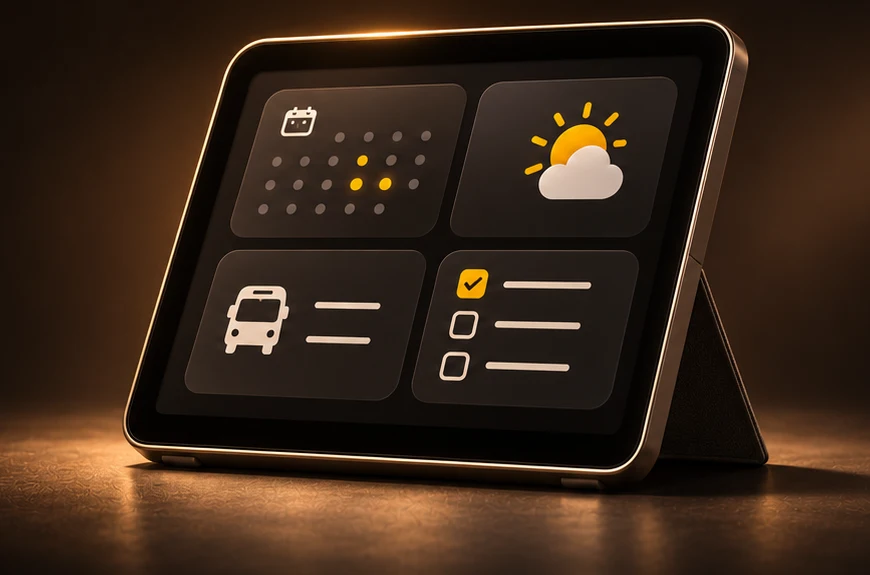
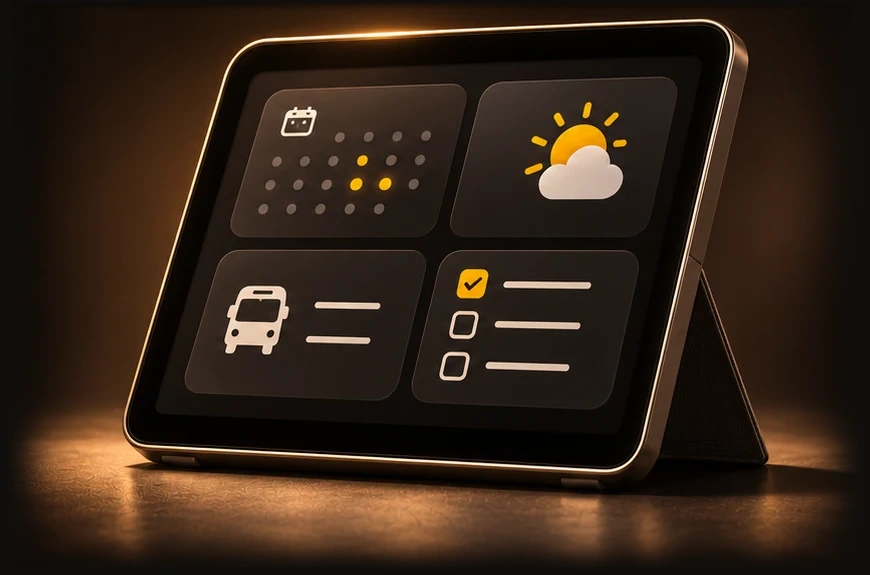
Ü12: Projektarchiv ohne Sprünge bedienen

diff --git a/index.html b/index.html
@@ -41,43 +41,57 @@
 
     <section id="projekte" class="section" aria-labelledby="projekte-title">
       <div class="container">
-        <div class="catalog-heading">
-          <h2 id="projekte-title">Projektarchiv</h2>
-          <button type="button" class="tour-control" hidden>Rundgang starten</button>
-        </div>
+        <h2 id="projekte-title">Projektarchiv</h2>
         <div class="catalog">
-          <nav class="project-list" aria-label="Projektauswahl">
-            <a href="#plantbuddy"><img src="assets/projekte/plantbuddy.webp" alt="" loading="lazy"><span><strong>PlantBuddy</strong><small>App-Konzept im Team</small></span></a>
-            <a href="#homelab"><img src="assets/projekte/homelab.webp" alt="" loading="lazy"><span><strong>Homelab</strong><small>Eigene Dienste mit Proxmox</small></span></a>
-            <a href="#portal-islands"><img src="assets/projekte/portal-islands.webp" alt="" loading="lazy"><span><strong>Portal Islands</strong><small>Minecraft-Mod für Inselexpeditionen</small></span></a>
-            <a href="#dashboard"><img src="assets/projekte/dashboard.webp" alt="" loading="lazy"><span><strong>Dashboard</strong><small>Konzept für eine private Webübersicht</small></span></a>
-            <a href="#escape-the-tide"><img src="assets/projekte/escape-the-tide.webp" alt="" loading="lazy"><span><strong>Escape the Tide</strong><small>Taktikrätsel mit steigender Flut</small></span></a>
-          </nav>
+          <div class="catalog-sidebar">
+            <nav class="project-list" aria-label="Projektauswahl">
+              <a href="#plantbuddy"><img src="assets/projekte/plantbuddy.webp" width="860" height="560" alt="" loading="lazy"><span><strong>PlantBuddy</strong><small>App-Konzept im Team</small></span></a>
+              <a href="#homelab"><img src="assets/projekte/homelab.webp" width="865" height="595" alt="" loading="lazy"><span><strong>Homelab</strong><small>Eigene Dienste mit Proxmox</small></span></a>
+              <a href="#portal-islands"><img src="assets/projekte/portal-islands.webp" width="860" height="598" alt="" loading="lazy"><span><strong>Portal Islands</strong><small>Minecraft-Mod für Inselexpeditionen</small></span></a>
+              <a href="#dashboard"><img src="assets/projekte/dashboard.webp" width="870" height="575" alt="" loading="lazy"><span><strong>Dashboard</strong><small>Konzept für eine private Webübersicht</small></span></a>
+              <a href="#escape-the-tide"><img src="assets/projekte/escape-the-tide.webp" width="870" height="582" alt="" loading="lazy"><span><strong>Escape the Tide</strong><small>Taktikrätsel mit steigender Flut</small></span></a>
+            </nav>
+            <div class="tour-controls" hidden>
+              <span class="tour-track" aria-hidden="true"><span></span></span>
+              <button type="button" class="tour-control" aria-label="Rundgang starten">Start</button>
+            </div>
+            <a class="project-jump" href="#plantbuddy-title" hidden>Zum ausgewählten Projekt</a>
+          </div>
           <div class="project-details">
             <article id="plantbuddy" aria-labelledby="plantbuddy-title">
-              <h3 id="plantbuddy-title">PlantBuddy</h3>
-              <p>Für WGs und Büros haben wir im Modul WPR1 ein Konzept für die gemeinsame Pflanzenpflege erarbeitet. Im Team entstanden der Projektauftrag, die Systemziele und die Grobanforderungen.</p>
-              <img src="assets/projekte/plantbuddy.webp" loading="lazy" alt="">
+              <div>
+                <h3 id="plantbuddy-title" tabindex="-1">PlantBuddy</h3>
+                <p>Für WGs und Büros haben wir im Modul WPR1 ein Konzept für die gemeinsame Pflanzenpflege erarbeitet. Im Team entstanden der Projektauftrag, die Systemziele und die Grobanforderungen.</p>
+              </div>
+              <img src="assets/projekte/plantbuddy.webp" width="860" height="560" loading="lazy" alt="">
             </article>
             <article id="homelab" aria-labelledby="homelab-title">
-              <h3 id="homelab-title">Homelab</h3>
-              <p>In meinem Homelab betreibe ich eigene Dienste und beschäftige mich mit Virtualisierung, Netzwerken und Datensicherung. Interne Anwendungen und öffentlich erreichbare Gameserver laufen in getrennten Netzbereichen.</p>
-              <img src="assets/projekte/homelab.webp" loading="lazy" alt="">
+              <div>
+                <h3 id="homelab-title" tabindex="-1">Homelab</h3>
+                <p>In meinem Homelab betreibe ich eigene Dienste und beschäftige mich mit Virtualisierung, Netzwerken und Datensicherung. Interne Anwendungen und öffentlich erreichbare Gameserver laufen in getrennten Netzbereichen.</p>
+              </div>
+              <img src="assets/projekte/homelab.webp" width="865" height="595" loading="lazy" alt="">
             </article>
             <article id="portal-islands" aria-labelledby="portal-islands-title">
-              <h3 id="portal-islands-title">Portal Islands</h3>
-              <p>Die Mod führt Spieler gemeinsam auf Expeditionen. Eine Herausforderung ist die Rückkehr: Jede Person soll nach der gemeinsamen Reise ihren eigenen Ausgangspunkt wieder erreichen.</p>
-              <img src="assets/projekte/portal-islands.webp" loading="lazy" alt="">
+              <div>
+                <h3 id="portal-islands-title" tabindex="-1">Portal Islands</h3>
+                <p>Die Mod führt Spieler gemeinsam auf Expeditionen. Eine Herausforderung ist die Rückkehr: Jede Person soll nach der gemeinsamen Reise ihren eigenen Ausgangspunkt wieder erreichen.</p>
+              </div>
+              <img src="assets/projekte/portal-islands.webp" width="860" height="598" loading="lazy" alt="">
             </article>
             <article id="dashboard" aria-labelledby="dashboard-title">
-              <h3 id="dashboard-title">Dashboard</h3>
-              <p>Kalender, Aufgaben, Wetter und ÖV sollen auf einen Blick zeigen, was für den Tag ansteht. Das Tablet illustriert das Konzept mit Beispieldaten.</p>
-              <img src="assets/projekte/dashboard.webp" loading="lazy" alt="">
+              <div>
+                <h3 id="dashboard-title" tabindex="-1">Dashboard</h3>
+                <p>Kalender, Aufgaben, Wetter und ÖV sollen auf einen Blick zeigen, was für den Tag ansteht. Das Tablet illustriert das Konzept mit Beispieldaten.</p>
+              </div>
+              <img src="assets/projekte/dashboard.webp" width="870" height="575" loading="lazy" alt="">
             </article>
             <article id="escape-the-tide" aria-labelledby="escape-the-tide-title">
-              <h3 id="escape-the-tide-title">Escape the Tide</h3>
-              <p>Mit jedem gültigen Schritt breitet sich das Wasser aus. Vor dem ersten Zug kannst du eine Barriere setzen. Sie schützt deinen Weg und kann dir zugleich den Ausgang versperren.</p>
-              <img src="assets/projekte/escape-the-tide.webp" loading="lazy" alt="">
+              <div>
+                <h3 id="escape-the-tide-title" tabindex="-1">Escape the Tide</h3>
+                <p>Mit jedem gültigen Schritt breitet sich das Wasser aus. Vor dem ersten Zug kannst du eine Barriere setzen. Sie schützt deinen Weg und kann dir zugleich den Ausgang versperren.</p>
+              </div>
+              <img src="assets/projekte/escape-the-tide.webp" width="870" height="582" loading="lazy" alt="">
             </article>
           </div>
         </div>

diff --git a/js/main.js b/js/main.js
@@ -8,37 +8,60 @@ if (yearElement) {
 const projectLinks = [...document.querySelectorAll('.project-list a')];
 const projectArticles = projectLinks.map(link => document.getElementById(link.hash.slice(1)));
 
-function selectProject(hash) {
-  const selected = projectLinks.findIndex(link => link.hash === hash);
-  if (selected < 0) return false;
-  projectLinks.forEach((link, index) => {
-    projectArticles[index].hidden = index !== selected;
-    if (index === selected) link.setAttribute('aria-current', 'true');
-    else link.removeAttribute('aria-current');
-  });
-  return true;
+const catalog = document.querySelector('#projekte');
+const controls = catalog.querySelector('.tour-controls');
+const control = controls.querySelector('button');
+const bar = controls.querySelector('.tour-track span');
+const jump = catalog.querySelector('.project-jump');
+const motion = window.matchMedia('(prefers-reduced-motion: reduce)');
+const interval = 10000;
+let current = 0;
+
+function projectIndex(hash) {
+  return projectArticles.findIndex(article =>
+    hash === '#' + article.id || hash === '#' + article.getAttribute('aria-labelledby'));
 }
 
-const catalog = document.querySelector('#projekte');
-const control = catalog.querySelector('.tour-control');
-const motion = window.matchMedia('(prefers-reduced-motion: reduce)');
-const directEntry = selectProject(location.hash);
-if (!directEntry) selectProject(projectLinks[0].hash);
+function selectProject(index) {
+  current = index;
+  projectArticles.forEach((article, i) => {
+    article.inert = i !== index;
+    if (i === index) projectLinks[i].setAttribute('aria-current', 'true');
+    else projectLinks[i].removeAttribute('aria-current');
+  });
+  jump.hash = projectArticles[index].getAttribute('aria-labelledby');
+}
 
-let playing = !motion.matches && !directEntry && !catalog.contains(document.activeElement);
+const initial = projectIndex(location.hash);
+catalog.querySelector('.project-details').classList.add('is-interactive');
+selectProject(initial < 0 ? 0 : initial);
+jump.hidden = false;
+
+let reducedMotion = motion.matches;
+let playing = initial < 0 && !reducedMotion;
 let visible = false;
 let hovering = false;
-let timer;
+let focused = catalog.contains(document.activeElement);
+let frame;
+let deadline;
+
+function tick(now) {
+  if (now >= deadline) {
+    selectProject((current + 1) % projectLinks.length);
+    deadline = now + interval;
+  }
+  if (!reducedMotion) bar.style.transform = 'scaleX(' + ((deadline - now) / interval) + ')';
+  frame = requestAnimationFrame(tick);
+}
 
 function scheduleTour() {
-  clearTimeout(timer);
-  control.textContent = playing ? 'Rundgang pausieren' : 'Rundgang starten';
-  if (!playing || !visible || document.hidden || hovering) return;
-  timer = setTimeout(() => {
-    const current = projectArticles.findIndex(article => !article.hidden);
-    selectProject(projectLinks[(current + 1) % projectLinks.length].hash);
-    scheduleTour();
-  }, 10000);
+  cancelAnimationFrame(frame);
+  control.textContent = playing ? 'Pause' : 'Start';
+  control.setAttribute('aria-label', playing ? 'Rundgang pausieren' : 'Rundgang starten');
+  if (!playing || !visible || hovering || focused || document.hidden) return;
+  bar.style.transform = 'scaleX(1)';
+  deadline = performance.now() + interval;
+  frame = requestAnimationFrame(tick);
 }
 
 function pauseTour() {
@@ -47,7 +70,7 @@ function pauseTour() {
 }
 
 if ('IntersectionObserver' in window) {
-  control.hidden = false;
+  controls.hidden = false;
   new IntersectionObserver(([entry]) => {
     visible = entry.isIntersecting;
     scheduleTour();
@@ -56,43 +79,72 @@ if ('IntersectionObserver' in window) {
     hovering = event.pointerType === 'mouse';
     scheduleTour();
   });
+  catalog.addEventListener('pointerover', event => {
+    if (event.pointerType === 'mouse' && !hovering && !control.contains(event.target)) {
+      hovering = true;
+      scheduleTour();
+    }
+  });
   catalog.addEventListener('pointerleave', () => {
+    if (!hovering) return;
     hovering = false;
     scheduleTour();
   });
-  // Beim Mausklick auf Pause kommt focusin vor click. Die beabsichtigte
-  // Aktion deshalb vor dem Fokuswechsel festhalten.
-  let pointerAction;
-  control.addEventListener('pointerdown', () => { pointerAction = !playing; });
-  control.addEventListener('pointercancel', () => { pointerAction = undefined; });
-  catalog.addEventListener('focusin', pauseTour);
-  control.addEventListener('click', event => {
-    playing = event.detail && pointerAction !== undefined ? pointerAction : !playing;
-    pointerAction = undefined;
-    if (playing) hovering = false;
+  catalog.addEventListener('focusin', () => {
+    focused = true;
+    scheduleTour();
+  });
+  catalog.addEventListener('focusout', event => {
+    if (catalog.contains(event.relatedTarget)) return;
+    focused = false;
+    scheduleTour();
+  });
+  control.addEventListener('click', () => {
+    playing = !playing;
+    if (playing) {
+      hovering = false;
+      focused = false;
+      if (projectIndex(location.hash) >= 0) {
+        history.replaceState({ project: current }, '', '#' + catalog.id);
+      }
+    }
     scheduleTour();
   });
   document.addEventListener('visibilitychange', scheduleTour);
-  motion.addEventListener('change', () => {
-    if (motion.matches) pauseTour();
+  motion.addEventListener('change', event => {
+    reducedMotion = event.matches;
+    if (reducedMotion) pauseTour();
   });
   scheduleTour();
 }
 
-// Vor dem nativen Sprung auch ein momentan verborgenes Ziel einblenden.
 document.addEventListener('click', event => {
   const link = event.target.closest('a[href^="#"]');
-  if (link && !event.ctrlKey && !event.metaKey && !event.shiftKey && !event.altKey) {
-    if (selectProject(link.hash)) pauseTour();
-  }
-});
-window.addEventListener('hashchange', () => {
-  if (selectProject(location.hash)) {
-    pauseTour();
-    document.querySelector(location.hash).scrollIntoView();
+  if (!link || event.defaultPrevented || event.button !== 0 || event.ctrlKey ||
+      event.metaKey || event.shiftKey || event.altKey) return;
+  const index = projectIndex(link.hash);
+  if (index < 0) return;
+  const previous = current;
+  pauseTour();
+  selectProject(index);
+  if (projectLinks.includes(link)) {
+    event.preventDefault();
+    link.focus({ preventScroll: true });
+    if (link.hash !== location.hash) {
+      history.replaceState({ ...history.state, project: previous }, '');
+      history.pushState({ project: index }, '', link.hash);
+    }
   }
 });
 
+window.addEventListener('popstate', event => {
+  const index = projectIndex(location.hash);
+  const restored = index >= 0 ? index : event.state?.project;
+  if (restored !== undefined) {
+    selectProject(restored);
+    pauseTour();
+  }
+});
 
 // Der oberste erreichte Abschnitt bestimmt die aktive Navigation.
 const sectionLinks = [...document.querySelectorAll('.nav-list a')];

diff --git a/css/styles.css b/css/styles.css
@@ -310,14 +310,43 @@ figcaption small { display: block; font: .9rem/1.5 var(--font-body); }
 .project-list img, .project-list small { display: none; }
 .project-details article { padding-block: 1rem; }
 .project-details h3 { font: 500 clamp(2rem, 5vw, 4rem)/1.1 Georgia, serif; }
-.project-details img { display: block; width: 100%; height: auto; object-fit: contain; }
+.project-details img { display: block; width: 100%; height: auto; aspect-ratio: 3 / 2; object-fit: contain; }
 @media (min-width: 48rem) {
   .catalog { display: grid; grid-template-columns: minmax(15rem, 1fr) minmax(0, 2fr); gap: 2rem; }
   .project-list { display: grid; }
-  .project-list img { display: block; width: 28%; height: auto; object-fit: contain; }
+  .project-list img { display: block; width: 28%; height: auto; aspect-ratio: 3 / 2; object-fit: contain; }
   .project-list small { display: block; margin-top: .3rem; color: var(--color-muted); }
   .project-details article { padding-top: 0; }
 }
 
-.catalog-heading { display: flex; align-items: baseline; justify-content: space-between; flex-wrap: wrap; gap: 0 1rem; }
-.tour-control { padding: .65rem 1rem; margin-bottom: 1rem; border: 0; border-radius: var(--radius); background: var(--color-accent); color: #21160b; font: inherit; cursor: pointer; }
+/* Alle fünf Texte bestimmen gemeinsam die Höhe der ersten Zeile. */
+.project-details.is-interactive {
+  display: grid;
+  grid-template-rows: auto auto;
+  align-content: start;
+}
+.project-details.is-interactive article {
+  grid-area: 1 / 1 / span 2;
+  display: grid;
+  grid-template-rows: subgrid;
+  min-width: 0;
+}
+.project-details article[inert] { visibility: hidden; }
+
+.tour-controls { display: flex; align-items: center; gap: .75rem; margin-block: .75rem; }
+.tour-track { flex: 1; height: .2rem; background: var(--color-border); }
+.tour-track span { display: block; height: 100%; background: var(--color-accent); transform-origin: left; }
+.tour-control {
+  width: 8ch;
+  padding: .35em .5em;
+  border: 0;
+  border-radius: var(--radius);
+  background: var(--color-accent);
+  color: #21160b;
+  font: inherit;
+  cursor: pointer;
+}
+.project-jump { font-size: .9em; }
+@media (min-width: 48rem) {
+  .project-jump { display: none; }
+}

diff --git a/CHANGELOG.md b/CHANGELOG.md
@@ -1,5 +1,23 @@
 # Changelog
 
+## Ü12 – Projektarchiv ohne Sprünge
+
+Die Auswahl aktualisiert Detailansicht und Projekthash und lässt den Fokus auf dem Listenlink. Zurück und Vorwärts stellen die Auswahl wieder her. Im einspaltigen Layout führt «Zum ausgewählten Projekt» gezielt zum Titel. Ohne JavaScript bleiben alle fünf Artikel über ihre Fragmentlinks erreichbar.
+
+Alle fünf Texte bestimmen über gemeinsame Grid-Zeilen den Platz oberhalb des Grossbildes. Intrinsische Masse und responsive 3:2-Flächen reservieren den Platz für Grossbilder und Miniaturen. Die äusseren Studioflächen aller fünf WebPs laufen in den gemessenen Seitenhintergrund `#100e0c` aus. Die Bearbeitung verwendet ImageGen für die Randbereiche und das jeweilige Original für Motiv und Bodenkontakt.
+
+Unter der Liste bedienen Start und Pause den Zehn-Sekunden-Rundgang. Balken und Wechsel verwenden denselben Endzeitpunkt. Manuelle Auswahl und Pause bleiben bestehen, bis Start aktiviert wird. Bei reduzierter Bewegung beginnt der Rundgang pausiert und lässt sich mit ruhendem Balken bewusst starten.
+
+Lokale Abnahme am 27.11.2026 mit dem Ü11-Playwright-Aufbau unter Linux:
+
+- Chromium 159.0.8154.6, Firefox 159.0 und WebKit 27.2 bei 320, 768, 1024 und 1440 CSS-Pixeln, jeweils 900 px hoch. Alle 60 Auswahlen zeigten genau das richtige Projekt, den passenden Hash und den Fokus auf dem Listenlink. Scrollposition, Archivüberschrift, Bildoberkante und Bildmasse blieben je Browser und Breite gleich. Kein horizontaler Überlauf. Firefox bei 320 px erreichte nach jedem der fünf Erstklicks ab frischem Laden 320/320 px für Client- und Scrollbreite.
+- Grossbilder bei 320 und 1440 px sowie Desktop-Miniaturen aller fünf Motive in allen drei Engines visuell geprüft. Die Bildflächen massen bei den vier Breiten 288 × 192, 464 × 309,3, 640 × 426,7 und 704 × 469,3 px. Motive vollständig, Gehäusefüsse, Reflexe und vordere Brettkante sichtbar. Die mobilen Miniaturen bleiben ausgeblendet.
+- Enter, wiederholte Auswahl, mobiler Detailsprung mit Fokus am Titel, Direktlink, Neuladen und Verlauf in allen drei Engines geprüft. Chromium zusätzlich mit Strg-Klick in neuem Tab, ohne JavaScript und mit emuliertem Touch geprüft. Bei 200 % Grundschrift passten alle fünf Textblöcke oberhalb der stabilen Bildfläche. Beim verzögerten Laden der Homelab-Datei blieben Bildanfang, Bildmasse und Position des folgenden Abschnitts gleich.
+- Chromium in Echtzeit: Dashboard blieb nach manueller Wahl und Verlassen des Katalogs 20 s sichtbar. Nach Start war bei 9,6 s weiterhin Dashboard ausgewählt, nach 10,013 s erschien Escape the Tide. Fokus und Scrollposition blieben erhalten, der Hash war `#projekte` und die History-Länge blieb gleich.
+- Explizite Pause, Start per Tastatur, Hover, Fokus, Rückkehr ins Sichtfeld sowie Aktivieren reduzierter Bewegung und bewusster Neustart mit ruhendem Balken geprüft. In einem tatsächlich verborgenen Chromium-Tab blieb die Auswahl über 10,5 s erhalten. Nach Rückkehr war sie nach 9,5 s noch gleich, nach 10,3 s erschien das nächste Projekt.
+- Zusatzbefund im headless WebKit-Aufbau bei 320 px: Der separate Textlink aus «Skills» zu PlantBuddy hatte bereits auf `e017410` eine gemessene Höhe von 0 px. Sein Tastatursprung funktioniert, der Mausklick auf diesen externen Einstieg bleibt in diesem Aufbau offen. Alle fünf Links der Archivliste waren per Maus bedienbar.
+- Offen bleiben echte Touch-Eingabe auf Hardware und Schritt 4.2, die separate manuelle Screenreader-Prüfung.
+
 ## Überarbeitung Ü11 – Integration und Dokumentation
 
 README auf fünf Projekte und Rundgang aktualisiert, überholte CSS-Regeln für Filter und Karten entfernt. Unter /portfolio-page/ in QtWebEngine 5.15.2 (Chromium 83) alle fünf Projekte bei 320, 768, 1024 und 1440 px ausgewählt: passender Artikel sichtbar, kein horizontaler Dokumentüberlauf. Direktaufruf #dashboard und Wechsel von Escape the Tide zu PlantBuddy nach Neustart geprüft. Zusätzlich alle lokalen Ressourcenpfade, internen Sprungziele und WebP-Dateien geprüft.
